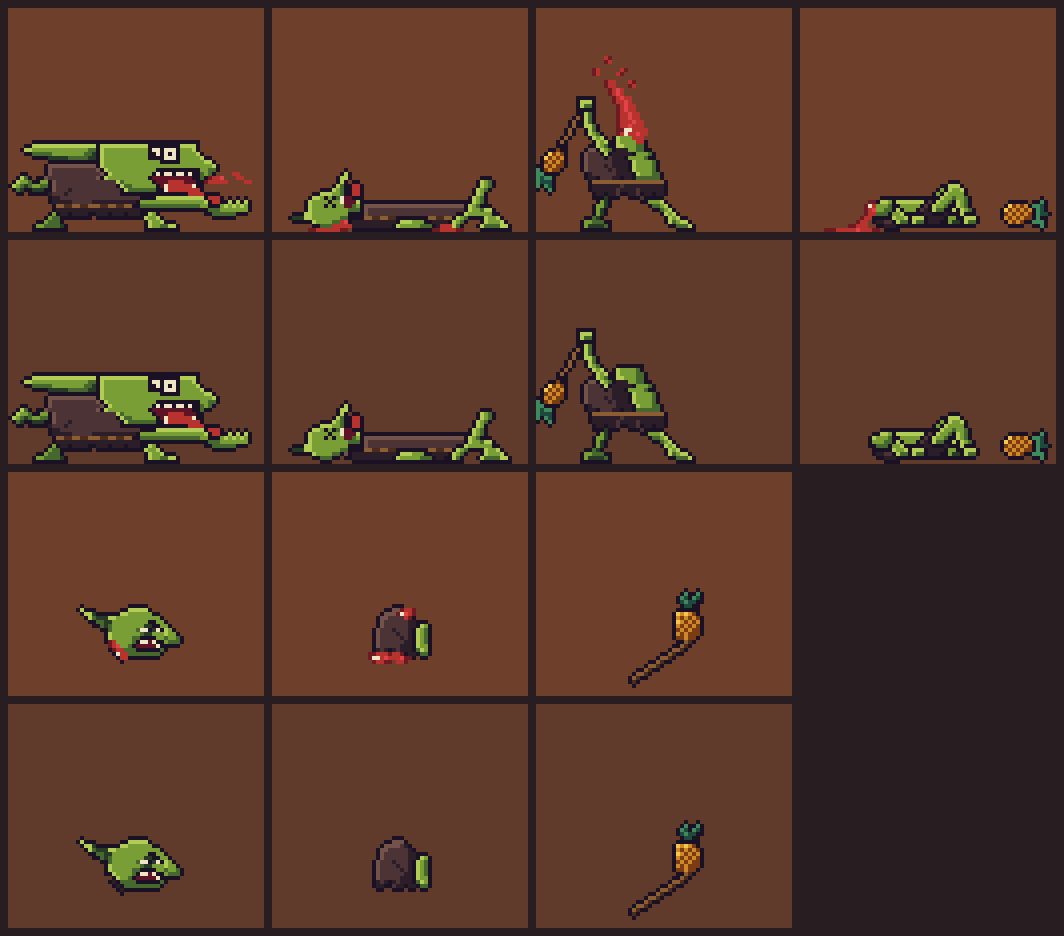
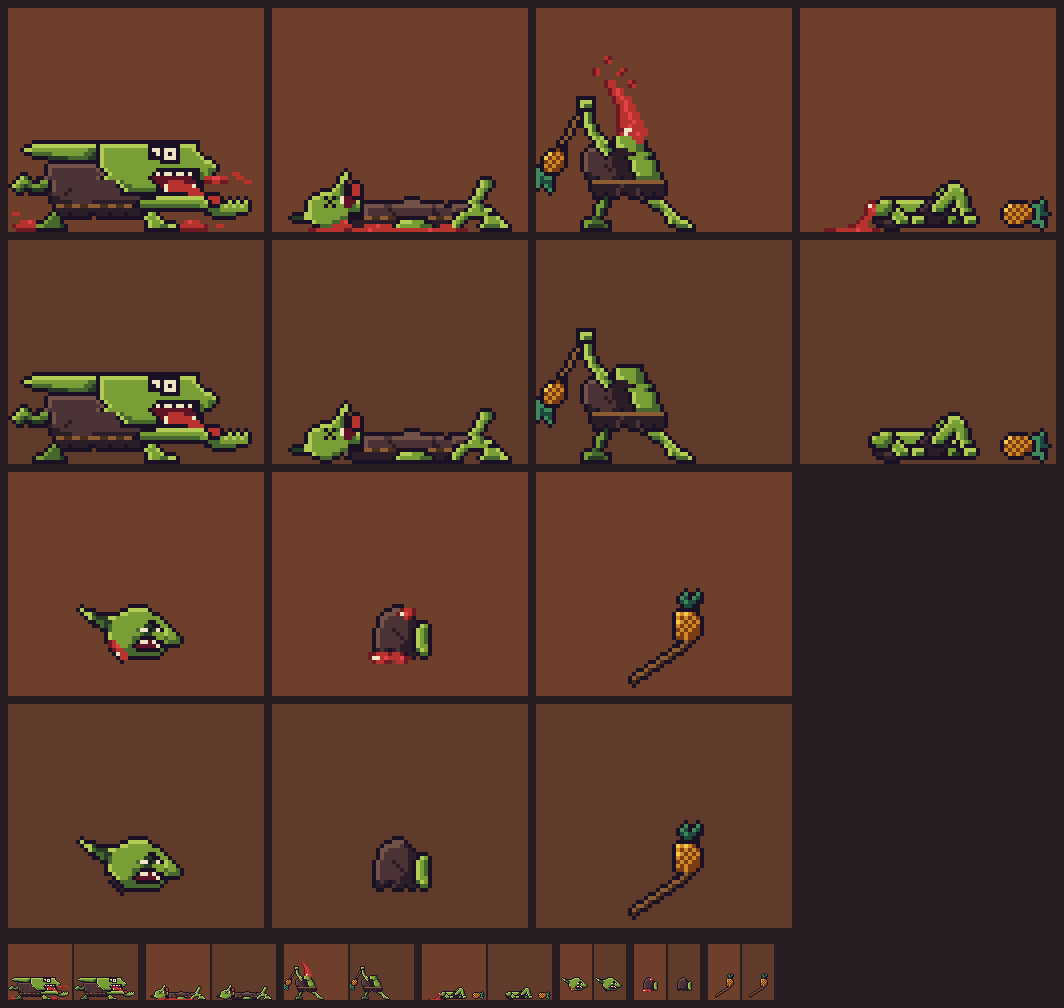
art(gob-02-death): silhouette-gate fixes to crush keys 0 and 2, composited scale sheets
Frame 0 crush_contact: solid mouth gush and squeeze-out bursts at both squeeze
anchors (55 gore px, 5 wet highlights). Frame 2 crushed_remains: one continuous
seep on row 55, broken top light, notched outline and folds on the rag mass.
Scale sheets now composite the ENV-02 falling and landed block; the preset sheet
gains a 1x strip. Re-froze pose keys 0 and 2 only. Gate rulings recorded in
spec section 13.

diff --git a/scripts/author_gob02_death.py b/scripts/author_gob02_death.py
@@ -221,30 +221,32 @@ def crushed_remains() -> dict[str, list[str]]:
     return cels(body, {}, segs(CRUSHED_REMAINS_GORE))
 
 
-CRUSH_GORE = {
+CRUSH_GORE = {               # preset 4 impact: mouth gush and squeeze-out bursts at both squeeze anchors
     41: [(56, "RR")],
-    42: [(50, "BRRP"), (57, "RR")],
-    43: [(49, "BRRRRR"), (59, "RR")],
+    42: [(49, "RRPPRR"), (57, "RR")],
+    43: [(49, "BBRRBB"), (59, "RR")],
+    51: [(1, "RR")],
+    53: [(3, "RRPR"), (44, "RPRR")],
+    54: [(1, "BRRRRR"), (43, "RRRRRRB"), (52, "RR")],
+    55: [(2, "BBBBB"), (43, "BBBBBBB")],
 }
 
-
-CRUSHED_REMAINS_GORE = {
+CRUSHED_REMAINS_GORE = {     # one continuous pressed-out seep under the whole heap (the pool decals spread it later)
     53: [(17, "RP")],
-    54: [(15, "RRRRR"), (42, "RRR")],
-    55: [(9, "BBRRRRRRBB"), (40, "BBRRRRBB")],
+    54: [(15, "RRRRR"), (23, "RRRPRRR"), (42, "RRR")],
+    55: [(9, "BBRRRRRRRBBRRRRPRRRRRRRRRRRRRRPRRRRRRBBB")],
 }
-
 CRUSHED_REMAINS = {   # the new pressed body, right of the reused GOB-01 frame-25 head (x 18 and up)
     42: "....................................................KKK",
     43: "...................................................KlmsK",
     44: "...................................................KlmsK",
     45: "..................................................KlmsK",
     46: "..................................................KlmK",
-    47: ".................................................KlmsK",
-    48: "......................KKKKKKKKKKKKKKKKKKKKKKKKKKKKlmsK",
-    49: "......................KuuuuuuuuuuuuuuuuuuuuuuuuuKlmsKK",
-    50: "......................KuttttttttttttttttttttttttKlmmsllK",
-    51: "......................KuttttttttttttttttttttttKKlmmmmmmKK",
+    47: ".................................KKKK............KlmsK",
+    48: "......................KKKKKKKKKKKuuuuKKKKK..KKKKKlmsK",
+    49: "......................KuuuuuttuuuuuuuuuutuuKKuuuuKlmsKK",
+    50: "......................KutttttrttttttttttrttttuttKlmmsllK",
+    51: "......................KuttttttrtttttttttrrtttKKlmmmmmmKK",
     52: "...................KKKKyyxxyyxxKKKKKKKKyyxxyyKlmsKKKKlmmlK",
     53: "...................KrrrrrrrrrrrKlllmmmKKrrrrKlmsK...KlmmmlK",
     54: "...................KrrrrrrrrrrKlmmmmmsssKrrKKlsK...KlssssllK",
@@ -451,10 +453,25 @@ def dump(grid: dict) -> str:
 
 
 # --------------------------------------------------------------------------- 1x silhouette and scale sheet
+OPENING_KIT = ROOT / "assets/source/terrain/floor01/floor01_opening_kit.json"
+
+
+def block_piece(piece_id: str):
+    """(image, anchor) of an ENV-02 opening-kit piece, cropped from its committed pixel-grid source."""
+    from scripts.pixelart.common import grid_images, load_grid_file
+    kit = json.loads(OPENING_KIT.read_text(encoding="utf-8"))
+    piece = next(p for p in kit["pieces"] if p["id"] == piece_id)
+    atlas = grid_images(load_grid_file(ROOT / kit["atlases"][piece["atlas"]]["grid"]))[0]
+    x, y, w, h = piece["rect"]
+    return atlas.crop((x, y, x + w, y + h)), tuple(piece["anchor"])
+
+
 def write_scale_sheet(out: Path = SCALE_SHEET) -> Path:
-    """Carl (52 px) and Donut (40 px) idle on the lit Floor 1 walking line, then the GOB-01 A idle for scale, the four
-    pose keys and the three key parts (parts dropped to the floor as they would settle), all at 1x; below, the same
-    strip at 4x. All facing as authored except Carl and Donut (facing right, towards the goblins)."""
+    """Two lit Floor 1 views at 1x, stacked. Top: Donut (40 px) and Carl (52 px), then the crush with the ENV-02 stone
+    composited (``loose_block_falling`` with its underside on frame row 33 over ``crush_contact``, and
+    ``crushed_remains`` in front of the foot of ``loose_block_landed``), the two decapitation keys and the three part
+    keys settled on the walking line. Bottom: the uncomposited lineup with the GOB-01 A idle for scale. A second file
+    holds the walking-line bands of both views at 4x."""
     sys.path.insert(0, str(ROOT))
     from PIL import Image
     from scripts.pixelart.common import CARL_X, DONUT_X, grid_images, load_grid_file
@@ -465,22 +482,48 @@ def write_scale_sheet(out: Path = SCALE_SHEET) -> Path:
     gob = grid_images(load_grid_file(GOBLIN_A))[0]
     poses = grid_images(poses_grid())
     parts = grid_images(parts_grid())
-    entries = [(donut, donut_piv, DONUT_X, 0), (carl, carl_piv, CARL_X, 0), (gob, tuple(PIVOT), CARL_X + 60, 0)]
+    falling, falling_anchor = block_piece("loose_block_falling")
+    landed, landed_anchor = block_piece("loose_block_landed")
+    piv = tuple(PIVOT)
+    cast = [(donut, donut_piv, DONUT_X, 0), (carl, carl_piv, CARL_X, 0)]
+
+    def settled_parts(x: int) -> list:
+        out = []
+        for img in parts:                 # settle each part on the walking line: its lowest opaque row on the floor
+            out.append((img, (CELL_PIVOT[0], img.getbbox()[3] - 1), x, 0, False))
+            x += 30
+        return out
+
+    composed = cast + [
+        (falling, falling_anchor, CARL_X + 88, PIVOT[1] - 33, False),     # stone underside on frame row 33
+        (poses[0], piv, CARL_X + 88, 0),
+        (landed, landed_anchor, CARL_X + 208, 0, False),
+        (poses[2], piv, CARL_X + 208, 0),
+        (poses[3], piv, CARL_X + 298, 0),
+        (poses[5], piv, CARL_X + 358, 0),
+    ] + settled_parts(CARL_X + 408)
+    plain = cast + [(gob, piv, CARL_X + 60, 0)]
     x = CARL_X + 124
-    for n in (0, 2, 3, 5):
-        entries.append((poses[n], tuple(PIVOT), x, 0))
+    for n in POSE_KEYS:
+        plain.append((poses[n], piv, x, 0))
         x += 66 if n in (0, 2) else 56
-    for img in parts:                     # settle each part on the walking line: its lowest opaque row on the floor
-        bottom = img.getbbox()[3] - 1
-        entries.append((img, (CELL_PIVOT[0], bottom), x, 0, False))
-        x += 30
+    plain += settled_parts(x)
     floor = Floor()
-    scene = floor.render(entries, 1)
+    scenes = [floor.render(composed, 1), floor.render(plain, 1)]
     ground = floor.ground(CARL_X) - floor.view[1]                 # walking line in view pixels
+    w, h = scenes[0].size
+    sheet = Image.new("RGB", (w, h * 2), (24, 23, 34))
+    bands = []
+    for i, sc in enumerate(scenes):
+        sheet.paste(sc, (0, i * h))
+        bands.append(sc.crop((0, max(0, ground - 74), w, min(h, ground + 14))))
     out.parent.mkdir(parents=True, exist_ok=True)
-    scene.save(out)
-    band = scene.crop((0, max(0, ground - 70), scene.width, min(scene.height, ground + 14)))
-    band.resize((band.width * 4, band.height * 4), Image.NEAREST).save(out.with_name("silhouette_scale_4x.png"))
+    sheet.save(out)
+    bw, bh = bands[0].size
+    big = Image.new("RGB", (bw * 4, bh * 8 + 8), (24, 23, 34))
+    for i, band in enumerate(bands):
+        big.paste(band.resize((bw * 4, bh * 4), Image.NEAREST), (0, i * (bh * 4 + 8)))
+    big.save(out.with_name("silhouette_scale_4x.png"))
     return out
 
 
@@ -493,8 +536,9 @@ def strip_gore(grid: dict) -> dict:
 
 
 def write_key_sheet(out: Path = SCALE_SHEET.with_name("keys_x4_preset4_vs_preset1.png")) -> Path:
-    """Each key at 4x on a flat brick tone: the top row as authored (preset 4, gore layer shown), the bottom row the
-    same pixels with the gore layer hidden (presets 1 and 2)."""
+    """Each key at 4x on a flat brick tone: the top row of each pair as authored (preset 4, gore layer shown), the
+    bottom row the same pixels with the gore layer hidden (preset 1). Bottom strip: every key at 1x, preset 4 then
+    preset 1."""
     sys.path.insert(0, str(ROOT))
     from PIL import Image
     from scripts.pixelart.common import grid_images
@@ -505,7 +549,16 @@ def write_key_sheet(out: Path = SCALE_SHEET.with_name("keys_x4_preset4_vs_preset
         keys = POSE_KEYS if grid["canvas"] == list(CANVAS) else PART_KEYS
         rows.append([(full[n], bare[n]) for n in keys])
     cw, ch = CANVAS[0] * k, CANVAS[1] * k
-    sheet = Image.new("RGB", (cw * 4 + 5 * 8, ch * 4 + 5 * 8), (40, 30, 34))
+    strip_h = CANVAS[1] + 16                 # bottom strip: every key at 1x, preset 4 then preset 1, side by side
+    sheet = Image.new("RGB", (cw * 4 + 5 * 8, ch * 4 + 5 * 8 + strip_h), (40, 30, 34))
+    x = 8
+    for a, b in rows[0] + rows[1]:
+        for j, img in enumerate((a, b)):
+            tile = Image.new("RGB", (img.width, CANVAS[1]), (110, 64, 44) if j == 0 else (96, 58, 42))
+            tile.paste(img, (0, CANVAS[1] - img.height), img)
+            sheet.paste(tile, (x, ch * 4 + 5 * 8 + 8))
+            x += img.width + 2
+        x += 6
     for col, (a, b) in enumerate(rows[0] + rows[1]):
         r, c = divmod(col, 4)
         for j, img in enumerate((a, b)):

diff --git a/tests/test_art_gob02_death.py b/tests/test_art_gob02_death.py
@@ -116,6 +116,17 @@ class Gob02DeathSourceTests(unittest.TestCase):
         self.assertGreaterEqual(top.count("K"), 36)                       # a long, straight stone-contact line
         self.assertEqual(self.poses["frames"][0]["cels"]["weapon"], ["." * 64] * 56)   # the club has left the hand
 
+    def test_preset4_crush_carries_its_own_blood(self):
+        """Gate fix: the crush impact and the remains show the squeeze-out on the pose itself, not only via the spawner
+        (at least 40 gore pixels with at least 3 wet highlights on frame 0; at least 40 on frame 2)."""
+        for n, lo, wet in ((0, 40, 3), (2, 40, 1)):
+            gore = "".join(self.poses["frames"][n]["cels"]["gore"])
+            self.assertGreaterEqual(sum(ch != "." for ch in gore), lo, n)
+            self.assertGreaterEqual(gore.count("P"), wet, n)
+        floor = self.poses["frames"][2]["cels"]["gore"][55]
+        run = max(len(r) for r in floor.split("."))
+        self.assertGreaterEqual(run, 16)                                  # one continuous seep, not specks
+
     def test_crushed_remains_keep_the_corpse_head(self):
         """Not a paper cut-out: the GOB-01 corpse head (X eyes, ear up, tongue) is reused pixel for pixel."""
         f25 = opaque(self.goblin["frames"][25]["cels"]["body"])

diff --git a/docs/02-art/gob-02-death-spec.md b/docs/02-art/gob-02-death-spec.md
@@ -104,8 +104,8 @@ Presets are presentation-only. They never touch the domain, eligibility, collisi
 
 ## 6. Key poses (as authored)
 
-- **0 `crush_contact`.** The landing tick of the block. The goblin is rammed down to 23 px (rows 33 to 55; GOB-01 standing is 36). The top is a straight 42 px `K` line on row 33: the stone's underside. Nothing is drawn above it. The head is shoved forward and flattened. The long ear is pressed flat back over the hump, and its tip pokes out behind (the 1x cue). The near eye bulges (3 x 3 `w`, a pinpoint `K` pupil). The jaw is sprung wide (top teeth row, dark mouth) and the tongue lolls out. Both arms are flung out flat, the near hand open with three fingers. The club is **not** in the frame: it leaves as the `club` part on this tick. The knees splay. Gore: a short squirt out of the mouth, breaking into two droplet pairs. New literal rows (blocked in with polygon and capsule shapes, then hand-finished as rows).
-- **2 `crushed_remains`.** The hold after the landing. A broken, low heap (rows 40 to 55): **not** a paper cut-out. The head is GOB-01 frame 25's corpse head, pixel for pixel down to row 50 (X eyes, the ear standing up, the tongue). The body is new: a pressed rag mass with a straight top on row 48, a squeezed-out belly, the near hand on the floor, one shin snapped up with the sole showing at the far end. Gore: blood squeezed out under both ends on rows 53 to 55. It sits at the stone's foot, drawn in the actors layer as usual (in front of `loose_block_landed`). The low height lets the stone dominate.
+- **0 `crush_contact`.** The landing tick of the block. The goblin is rammed down to 23 px (rows 33 to 55; GOB-01 standing is 36). The top is a straight 42 px `K` line on row 33: the stone's underside. Nothing is drawn above it. The head is shoved forward and flattened. The long ear is pressed flat back over the hump, and its tip pokes out behind (the 1x cue). The near eye bulges (3 x 3 `w`, a pinpoint `K` pupil). The jaw is sprung wide (top teeth row, dark mouth) and the tongue lolls out. Both arms are flung out flat, the near hand open with three fingers. The club is **not** in the frame: it leaves as the `club` part on this tick. The knees splay. Gore (preset 4 impact, 55 px, 5 `P`): a solid 2 px gush out of the mouth (`R` body, `P` core, `B` underside) breaking into droplet pairs, and a low squeeze-out burst fanning outward at each squeeze anchor over rows 53 to 55 (`B` floor edge, `R` body, a `P` glint, one detached droplet pair). With the stone composited on row 33 it reads as pressed (see the scale sheet's top view); alone it can read as a lunge, so evidence must always show it under the stone. New literal rows (blocked in with polygon and capsule shapes, then hand-finished as rows).
+- **2 `crushed_remains`.** The hold after the landing. A broken, low heap (rows 40 to 55): **not** a paper cut-out. The head is GOB-01 frame 25's corpse head, pixel for pixel down to row 50 (X eyes, the ear standing up, the tongue). The body is new: a pressed rag mass under a top outline on row 48 that is notched once and bumped once (torn rags, not a plank), a `u` top-light row broken by `t`, two `r` folds, the near hand on the floor, one shin snapped up with the sole showing at the far end. Gore: one continuous pressed-out seep along row 55 under the whole heap (40 px, `B` ends, `R` body, 2 `P`), plus the neck and hem seeping on row 54. It sits at the stone's foot, drawn in the actors layer as usual (in front of `loose_block_landed`). The low height lets the stone dominate.
 - **3 `decap_contact`.** The blade's tick. This is GOB-01 frame 16 (the `hurt` recoil: torso thrown back, arm flung up, stick trailing low behind), with the head, ear and jaw removed above the collar. The body from row 38 down and the weapon layer are unchanged (tested). A new short neck stump stands on the collar. On `gore`: the cut face on rows 30 and 31 (meat `R`, wet `P`, the spine end `ww` at the back), and **the jet**: a 2 to 6 px column straight up out of the stump (rows 12 to 31). It has a dark `B` edge on the shadow side and a `P` core, leans slightly back the way the head flew, and breaks into gobbets near the top. The jet is the one frame of excess: 4 ticks, then the spawner takes over.
 - **5 `headless_collapse` (hold).** GOB-01 frame 25 (`corpse`: on the back, knees up, the pineapple rolled off the stick) with the head removed (everything right of x 28 unchanged, tested). The new neck stump points to the camera-left. On `gore`: the cut face (a spine dot `w`), a run of blood down to the floor and a 14 px puddle on row 55. The spreading pool is a decal (section 7), not this frame.
 
@@ -205,7 +205,7 @@ Seeded by `hash(run_seed, event_id)` outside the domain, as the proposal require
 
 General rules: copy from the keys and from GOB-01 A as each row says. Translate whole parts. Do not resample or rotate except by 90°. Keep the palette and the layer rule (blood keys on `gore` only, `body`+`weapon` closed). Add every new frame to `scripts/author_gob02_death.py` as rules or literal rows. Keys must stay byte-identical (the fixtures).
 
-1. **Pose frame 1 (`crush_contact` flatten).** Copy frame 0. Move rows 33 to 45 down 3 rows (onto rows 36 to 48), replacing rows 46 to 48; rows 49 to 55 (skirt hem and legs) stay; close the seams with `K`. The near eye's `K` pupil becomes `w` (popped). Lengthen the mouth squirt by 4 px with one more droplet pair. Add squeeze-out gore on rows 54 and 55 at both feet (4 px `B`/`R` each). Anchors: `hit_origin` (28, 36), `mouth` (49, 46).
+1. **Pose frame 1 (`crush_contact` flatten).** Copy frame 0. Move rows 33 to 45 down 3 rows (onto rows 36 to 48), replacing rows 46 to 48; rows 49 to 55 (skirt hem and legs) stay; close the seams with `K`. The near eye's `K` pupil becomes `w` (popped). Lengthen the mouth gush by 4 px with one more droplet pair. Extend frame 0's two squeeze bursts 2 to 3 px further outward, and add one more droplet to each. Anchors: `hit_origin` (28, 36), `mouth` (49, 46).
 2. **Pose frame 4 (`headless_collapse` buckle).** Copy frame 3. Replace the legs (rows 47 to 55) with GOB-01 A frame 24's kneel legs (rows 47 to 55). Move the torso, neck and arm (rows 22 to 46) down 4 rows and 2 px left. Lower the fist to about (14, 30) by moving the forearm block. Gore: the jet becomes an 8 px column bent back (left) with two gobbets; the stump's cut face is unchanged. Anchors: `neck` (21, 35), `jet_base` (21, 34).
 3. **Parts 3 to 23** per the section 7 table, in that order. The design spec gives every source and rule.
 4. **Manifests** `assets/manifests/goblin_a_death_h36.json` and `goblin_a_death_parts.json` in the GOB-01/ENG-01 shape, plus `death_poses` and `death_parts` (section 7). Measure and record `frame0_origin` for parts 3 to 11.
@@ -220,8 +220,8 @@ Design problems found while executing go back to the design stage. Do not re-dec
 
 Automated (`python3 -m scripts.pixelart validate` on both configs, plus `tests/test_art_gob02_death.py`):
 
-- **D1 Crush contact.** Top row 33, flat `K` line of at least 36 px, nothing above it; no weapon pixel (the club has left); at least 8 `w` (the bulging eye and teeth).
-- **D2 Remains.** Top row 40 or lower and at least 14 px tall (a heap, not a sheet); GOB-01 corpse head reused pixel for pixel.
+- **D1 Crush contact.** Top row 33, flat `K` line of at least 36 px, nothing above it; no weapon pixel (the club has left); at least 8 `w` (the bulging eye and teeth); `gore` at least 40 px with at least 3 `P` (preset 4 clearly bloodier than preset 1).
+- **D2 Remains.** Top row 40 or lower and at least 14 px tall (a heap, not a sheet); GOB-01 corpse head reused pixel for pixel; `gore` at least 40 px with a continuous run of at least 16 px on row 55.
 - **D3 Decap.** At least 40 `R` (the jet); GOB-01 frame 16's body from row 38 and its weapon layer unchanged; no `w`/`o` on `body` (no head).
 - **D5 Headless.** Top row 38 or lower, width at most 60; GOB-01 frame 25 unchanged right of x 28 and its weapon layer unchanged.
 - **Layer rule.** `B`/`P` on `gore` only. With `gore` hidden: 0 isolated pixels, fewer than 10 orphans per frame, every coloured pixel closed.
@@ -238,8 +238,8 @@ Review (human eye, at 1x in the [scale sheet](../evidence/gob-02-death/silhouett
 
 ## 11. Evidence (design stage)
 
-- [`silhouette_scale_1x.png`](../evidence/gob-02-death/silhouette_scale_1x.png): the lit Floor 1 view at 640 x 360. From the left: Donut, Carl, GOB-01 A idle (for scale), then the four pose keys and the three part keys settled on the walking line. [`silhouette_scale_4x.png`](../evidence/gob-02-death/silhouette_scale_4x.png) is the walking-line band of the same image at 4x.
-- [`keys_x4_preset4_vs_preset1.png`](../evidence/gob-02-death/keys_x4_preset4_vs_preset1.png): every key at 4x, preset 4 (as authored) above preset 1 (the `gore` layer hidden).
+- [`silhouette_scale_1x.png`](../evidence/gob-02-death/silhouette_scale_1x.png): two lit Floor 1 views at 640 x 360, stacked. Top: Donut, Carl, then `crush_contact` under the ENV-02 `loose_block_falling` (underside on frame row 33), `crushed_remains` in front of the foot of `loose_block_landed`, the two decapitation keys and the three part keys settled on the walking line. Bottom: the uncomposited lineup with GOB-01 A idle for scale. [`silhouette_scale_4x.png`](../evidence/gob-02-death/silhouette_scale_4x.png) holds the walking-line bands of both views at 4x.
+- [`keys_x4_preset4_vs_preset1.png`](../evidence/gob-02-death/keys_x4_preset4_vs_preset1.png): every key at 4x, preset 4 (as authored) above preset 1 (the `gore` layer hidden), and a bottom strip of every key at 1x (preset 4, then preset 1).
 
 ## 12. Files
 
@@ -253,12 +253,13 @@ Review (human eye, at 1x in the [scale sheet](../evidence/gob-02-death/silhouett
 | `tests/test_art_gob02_death.py` | spec rules beyond the toolkit |
 | `docs/evidence/gob-02-death/` | design-stage evidence |
 
-## 13. Open questions
+## 13. Rulings (silhouette gate, 2026-11-18) and open notes
 
-1. **Variant B.** The death system needs B too (bandana, notched ear, missing tooth). Proposal: a small follow-up that adds an `accessory` layer to the head-bearing frames (poses 0, 1, 2; parts `head`, `head_dead`), using GOB-01 section 9's B overlay rule. All headless frames and parts are shared. Should it be its own work order or join this executor pass?
-2. **Remains draw order.** `crushed_remains` is drawn in front of `loose_block_landed` (actors layer, no exception). The alternative is to draw it just behind the stone, so the stone hides the middle and only ends poke out. That reads more "under the stone", but a goblin centred under the 96 px landed block would vanish. Kept in front unless the owner prefers the alternative.
-3. **Preset 1 decapitation.** The head still flies, with its cut hidden. If the owner wants preset 1 to avoid any detached head, the data switch is "replace `head` by a dust puff at `neck`". No art change.
-4. **Remains contrast.** On the darkest wall base the rag mass of `crushed_remains` is dark; the ear, head and snapped leg carry the read. Review at 1x in the scale sheet.
+1. **Variant B is a separate follow-up work order**, not this executor pass. Approach: an `accessory` layer on the head-bearing frames (poses 0, 1, 2; parts `head`, `head_dead`) with GOB-01 section 9's B overlay rule; headless frames and parts are shared. Gate it separately after this set is final.
+2. **Remains stay in front of `loose_block_landed`** (actors layer, no exception). A goblin hidden under the 96 px block would lose the payoff; the low heap does not hide the stone (see the composited scale sheet). Revisit only if the Bevy capture reads as "lying next to" rather than "squeezed out from under".
+3. **Preset 1 decapitation: the head still flies with its cut hidden** (default). Optional later data flag, an owner decision and not part of this pass: decapitation falls back to GOB-01 `knockback` → `corpse` + dust at preset 1, mirroring the explosive fallback. No art change either way.
+4. **Remains contrast** is solved by the gate fix (the broken `u` top light, the notched outline and the folds on the rag mass). No palette change.
+5. Non-blocking note: `torso_upper` reads only as a generic chunk at 1x (acceptable for spinning debris). An optional later polish is a 1 px `u` rim on the vest hump's top edge; the key stays frozen for now.
 
 ## 14. Rights and provenance
 
@@ -266,6 +267,7 @@ Fan-concept art under the owner-reported `ART-PUBLICATION-ALL-V1` scope; no publ
 
 ### Rights/Provenance
 
-- Design, spec, hero keys and silhouette sheet: Claude Opus (top tier).
+- Design, spec, hero keys and silhouette sheet: Claude Opus (top tier); gate fixes to keys 0 and 2 and the composited sheets: same designer.
+- Silhouette gate: independent Claude Opus (FIX-KEYS, rulings recorded in section 13).
 - Execution (section 9): pending, medium tier.
 - Independent review: pending, separate top-tier agent.

diff --git a/docs/evidence/gob-02-death/README.md b/docs/evidence/gob-02-death/README.md
@@ -4,8 +4,8 @@ Spec: [gob-02-death-spec.md](../../02-art/gob-02-death-spec.md). Generated by `p
 
 | File | What |
 | --- | --- |
-| `silhouette_scale_1x.png` | lit Floor 1 view, 640 x 360, 1x. From the left: Donut (40 px), Carl (52 px), GOB-01 A idle (36 px, for scale), the pose keys `crush_contact`, `crushed_remains`, `decap_contact`, `headless_collapse`, then the part keys `head`, `torso_upper`, `club` settled on the walking line |
-| `silhouette_scale_4x.png` | the walking-line band of the same image at 4x (nearest neighbour) |
-| `keys_x4_preset4_vs_preset1.png` | every key at 4x: preset 4 as authored (top row of each pair) and preset 1, the same pixels with the `gore` layer hidden (bottom row) |
+| `silhouette_scale_1x.png` | two lit Floor 1 views, 640 x 360 each, 1x, stacked. Top: Donut (40 px), Carl (52 px), `crush_contact` under the ENV-02 `loose_block_falling` (stone underside on frame row 33), `crushed_remains` in front of the foot of `loose_block_landed`, `decap_contact`, `headless_collapse`, then the part keys `head`, `torso_upper`, `club` settled on the walking line. Bottom: the uncomposited lineup with GOB-01 A idle (36 px) for scale |
+| `silhouette_scale_4x.png` | the walking-line bands of both views at 4x (nearest neighbour) |
+| `keys_x4_preset4_vs_preset1.png` | every key at 4x: preset 4 as authored (top row of each pair) and preset 1, the same pixels with the `gore` layer hidden (bottom row); bottom strip: every key at 1x, preset 4 then preset 1 |
 
 Checksums: `SHA256SUMS` (run `sha256sum -c SHA256SUMS` in this folder).
